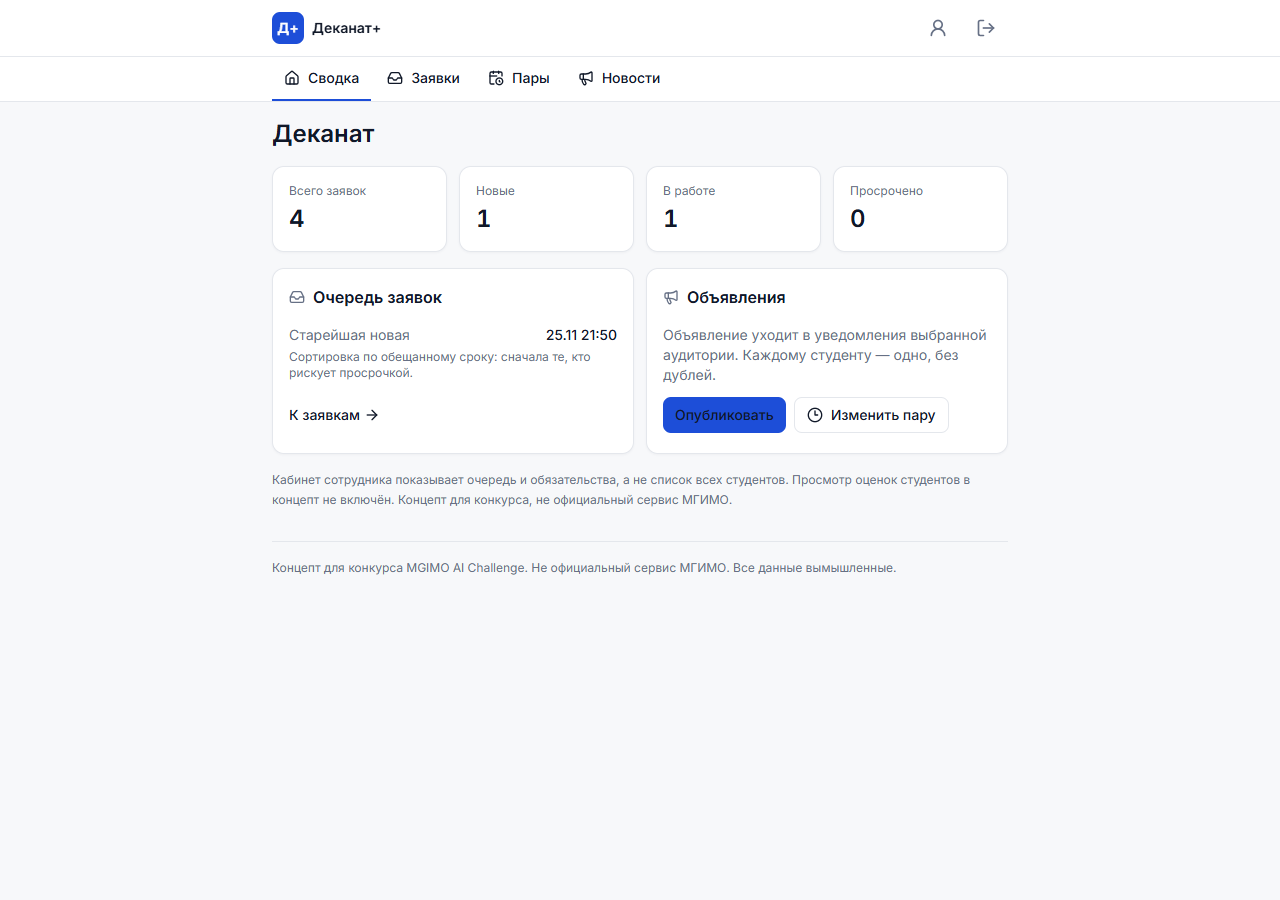
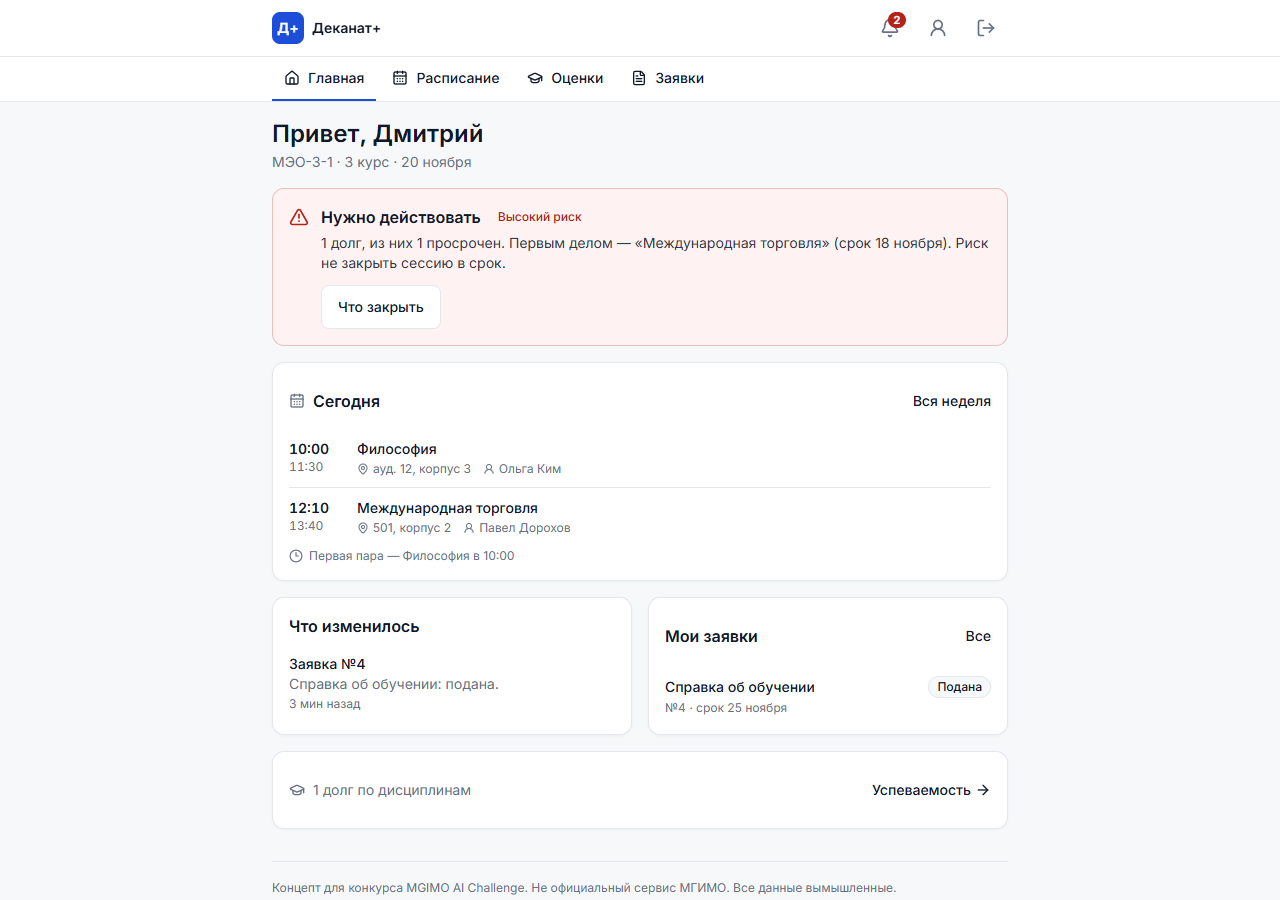
Документация: журнал 11 итераций, стадия мультиагентной проверки, синхронизация с кодом

diff --git a/docs/06-iterations.md b/docs/06-iterations.md
@@ -36,15 +36,109 @@
 
 ## Шаблон записи для следующих фаз
 
+## 20.11.2026 — реализация
+
+### И4. Стек: отказ от метафреймворка
+
 | Поле | Значение |
 |---|---|
-| Фаза | Ф1 / Ф2 / … |
-| Задача | что просили у ассистента |
-| Промпт | ссылка на стадию в `docs/05-promptbook.md` |
-| Результат | что получилось |
-| Дефекты | что пришлось исправить и почему |
-| Ручная работа | что делалось без ИИ |
-| Время | минуты |
+| Задача | Выбрать клиент и сервер так, чтобы проверки доступа были явными |
+| Промпт | стадия 4, `docs/05-promptbook.md` |
+| Первый вариант | ассистент собрал каркас на Next.js: серверные компоненты и server actions |
+| Проблема | путь запроса спрятан; для проверки «чужой id недоступен» пришлось бы читать фреймворк, а не свой код |
+| Решение | React + Vite на клиенте, Express на сервере: каждый маршрут виден целиком |
+| Итог | 14 проверок доступа пишутся в 80 строк и читаются без фреймворка |
+
+### И5. Третья попытка «упростить доступ»
+
+| Поле | Значение |
+|---|---|
+| Что просили | «покажи заявку по id» |
+| Что получили | `SELECT * FROM requests WHERE id = ?` — без `user_id` |
+| Как поймали | контракт `AGENTS.md`: id из запроса не является основанием доступа |
+| Исправление | `WHERE id = ? AND user_id = ?`, чужой id → 404 |
+| Проверка | `verify-idor.ts`: «студент А не видит чужую заявку» |
+
+### И6. «Что изменилось» показывало пустоту
+
+| Поле | Значение |
+|---|---|
+| Симптом | блок «Что изменилось» пуст при первом открытии |
+| Причина | `last_seen_at` обновлялся прямо при входе, точка отсчёта совпадала с моментом запроса |
+| Первое исправление | убрали обновление при логине |
+| Второй симптом | повторное открытие главной во время демонстрации обнуляло список |
+| Итоговое решение | точка отсчёта сдвигается не чаще раза в 30 минут |
+| Побочный дефект | даты сравнивались строками; заменено на числовое сравнение |
+
+### И7. Оценки выглядели «выставленными только что»
+
+| Поле | Значение |
+|---|---|
+| Симптом | в «Что изменилось» две оценки с временем «только что» |
+| Причина | сид ставил всем записям `updated_at = now` |
+| Исправление | у каждой оценки своя дата в прошлом; «новой» считается только свежая |
+
+### И8. Перенос пары терял исходное время
+
+| Поле | Значение |
+|---|---|
+| Симптом | повторное «перенесено» без изменения времени затирало исходное время |
+| Причина | `previous_starts_at` перезаписывался текущим значением без проверки |
+| Исправление | старое время сохраняется только если время действительно изменилось |
+| Проверка | в API расписания у перенесённой пары есть `previous_starts_at` |
+
+### И9. Срок заявки в нерабочий день
+
+| Поле | Значение |
+|---|---|
+| Симптом | заявка, поданная в пятницу, получала срок в субботу |
+| Причина | рабочие дни считались в локальной зоне сервера |
+| Исправление | `server/time.ts`: границы суток, день недели и сборка времени — по Москве |
+| Проверка | пятница 22:00 + 3 рабочих дня → среда 18:00 МСК |
+
+### И10. Навигация на десктопе уезжала под футер
+
+| Поле | Значение |
+|---|---|
+| Симптом | на скриншоте 1280 px горизонтальное меню оказалось внизу страницы |
+| Причина | десктопное меню стояло после `<main>` |
+| Исправление | меню перенесено под шапку, закреплено `sticky top-14` |
+| Проверка | повторный скриншот десктопа |
+
+### И11. Цели меньше 44 px
+
+| Поле | Значение |
+|---|---|
+| Симптом | ссылки «Вся неделя», «Все», кнопка «Что закрыть» — 20–36 px по высоте |
+| Как нашли | замер `getBoundingClientRect` по всем интерактивным элементам на 360 px |
+| Исправление | `min-h-11` у ссылок и кнопок, карточка заявки — не ниже 44 px |
+| Проверка | повторный замер: элементов ниже 44 px нет |
+
+### И12. Мутация проходила с чужим Origin
+
+| Поле | Значение |
+|---|---|
+| Симптом | проверка CSRF работала только при заданном `APP_ORIGIN` |
+| Причина | при пустой переменной условие `origin && expected` всегда ложно |
+| Исправление | при пустой переменной сравниваем Origin с фактическим хостом запроса |
+| Проверка | `verify-idor.ts`: «мутация с чужим Origin отклоняется» → 403 |
+
+### И13. Секрет сессии не использовался
+
+| Поле | Значение |
+|---|---|
+| Симптом | `SESSION_SECRET` был в `.env`, но токен хешировался обычным SHA-256 |
+| Риск | утечка файла базы позволяла бы проверить поддельные токены офлайн |
+| Исправление | HMAC-SHA256 с секретом; в production без секрета сервер не стартует |
+| Проверка | `verify:secrets`, вход после смены секрета |
+
+### И14. Проверки портили демо-данные
+
+| Поле | Значение |
+|---|---|
+| Симптом | `verify-idor.ts` работал на основной базе и добавлял тестовые заявки |
+| Исправление | проверка поднимает сервер на временной базе `data/verify.db` и удаляет её после прогона |
+| Ограничение | на Windows файл остаётся заблокированным до выхода процесса — добавлено ожидание |
 
 ## Сводка ручных этапов
 

diff --git a/docs/09-jury-description.md b/docs/09-jury-description.md
@@ -32,9 +32,9 @@
 - **Заявка как трекер.** Статусы, обещанный срок в рабочих днях, обязательная причина отказа, история.
 - **«Что изменилось».** Дифф с прошлого визита: перенос, оценка, статус заявки, объявление.
 
-![Светофор: жёлтый](screenshots/02-dashboard.png)
+![Светофор: жёлтый, первый студент](screenshots/02-dashboard.png)
 
-![Светофор: красный у второго студента](screenshots/16-desktop-dashboard.png)
+![Светофор: красный, второй студент](screenshots/16-desktop-dashboard.png)
 
 ## 3. Что узнали у однокурсников
 
@@ -59,6 +59,8 @@
 | Git | версии | история итераций |
 | Терминал | запуск | сборка, сид, проверки, локальный сервер |
 | VS Code | ручная правка | мелкие правки после генерации |
+
+Мультиагентный приём: отдельный агент-ревьюер получал только список файлов и инварианты, без истории разработки. Из двух прогонов один завис — задача была слишком широкой; после сужения до шести файлов агент выдал подтверждённые дефекты за один проход. Это записано в промптбуке, стадия 14.
 
 **Не использовались:** Figma (вёрстка сразу в коде), генераторы изображений (не решают задачу ядра), векторные БД (данных мало), Docker (лишний слой), платные UI-киты.
 
@@ -152,7 +154,7 @@
 | Хостинг | сервер заказчика, 0 ₽ дополнительно |
 | LLM в рантайме | опционально, < 1 ₽ за прогон; без ключа работает на шаблонах |
 
-Ошибки ИИ, потребовавшие переделки: 9 (см. `docs/06-iterations.md`). Типичные — «упростить проверку доступа», «сделать красивую таблицу» (ломалась на телефоне), «посчитать приоритет долгов моделью» (отклонено: невоспроизводимо).
+Ошибки ИИ, потребовавшие переделки: 11 (см. `docs/06-iterations.md`). Типичные — «упростить проверку доступа», «сделать красивую таблицу» (ломалась на телефоне), «посчитать приоритет долгов моделью» (отклонено: невоспроизводимо).
 
 ## 10. Заявленные возможности и ограничения
 

diff --git a/docs/05-promptbook.md b/docs/05-promptbook.md
@@ -172,6 +172,18 @@
 
 ---
 
+## Стадия 14. Независимый ревьюер
+
+**Цель:** поймать то, что автор промпта не видит.
+
+**Промпт:**
+
+> Ты независимый ревьюер. Ничего не меняй. Прочитай `server/auth.ts`, `server/index.ts`, `server/repo.ts`, `server/db.ts`, `db/seed.ts`, `shared/types.ts` и страницы. Верни до 12 пунктов по убыванию серьёзности в формате «файл:строка — дефект — почему это дефект — минимальное исправление». Проверь: обход изоляции данных, CSRF и Origin, утечки через ошибки, SQL-инъекции, гонки при мутациях, ошибки в датах и дедлайнах, мобильные дефекты. Не выдумывай проблем.
+
+**Что получила:** подтверждённые дефекты по Origin-проверке, срокам в рабочих днях и метрике «старейшая заявка». Два первых прогона зависли без результата — отменила и перезапустила с более узким списком файлов. Узкая задача оказалась быстрее широкой.
+
+**Что исправила руками:** сама перепроверила каждый пункт по коду и воспроизвела дефекты до правки.
+
 ## Сводка: что работало и что нет
 
 | Приём | Оценка |
@@ -184,4 +196,4 @@
 | Длинные промпты «сделай всё» | давали мусор, перешла на поэкранные задачи |
 | Просьба «сделай красиво» | бесполезна; работает «токены + правила + скриншот 360 px» |
 
-Журнал конкретных итераций — `docs/06-iterations.md`. Отдельные файлы промптов — `.ai/prompts/`.
+Журнал конкретных итераций — `docs/06-iterations.md` (записи И4–И14: 11 правок после ошибок ИИ). Отдельные файлы промптов — `.ai/prompts/`.

diff --git a/docs/07-time-cost.md b/docs/07-time-cost.md
@@ -56,5 +56,5 @@
 | Часы ручной правки | — |
 | Деньги на модели | — |
 | Деньги на хостинг | — |
-| Ошибки ИИ, потребовавшие переделки | — |
+| Ошибки ИИ, потребовавшие переделки | 11 (И4–И14, `docs/06-iterations.md`) |
 | Что пришлось делать человеку | см. `docs/06-iterations.md` |
